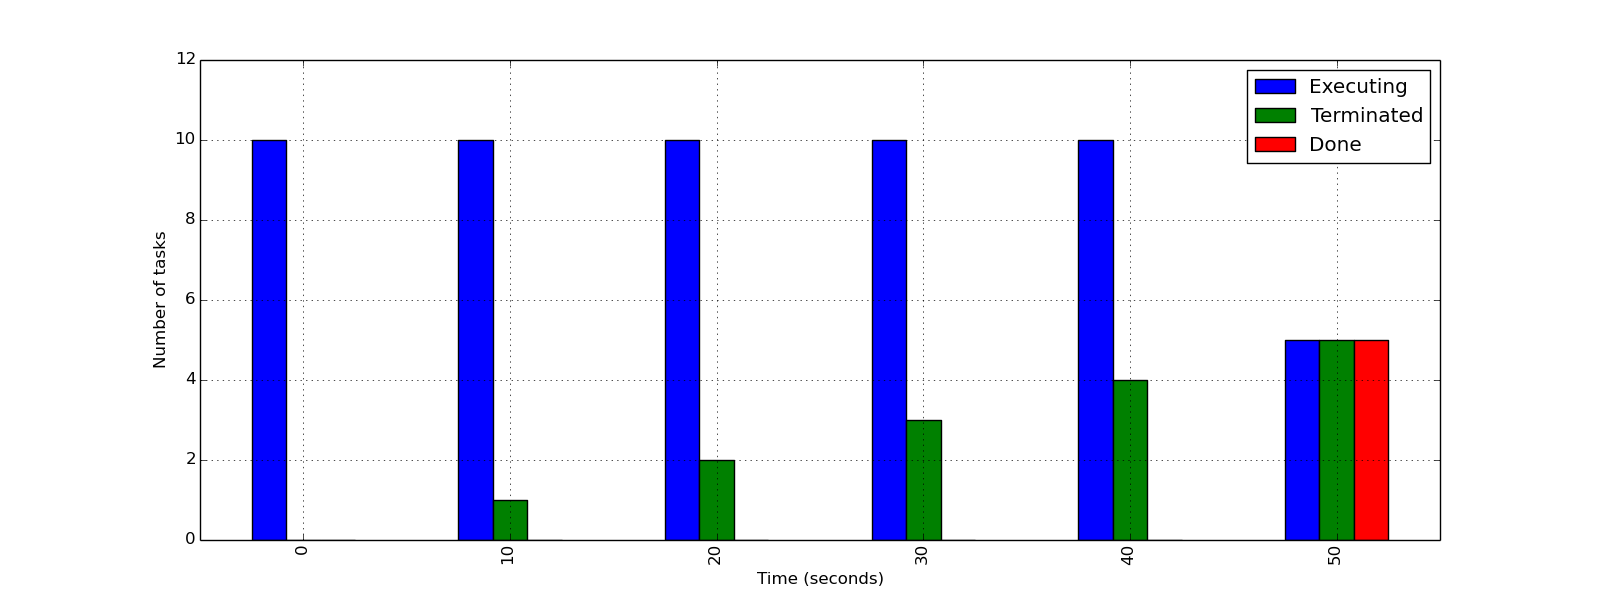
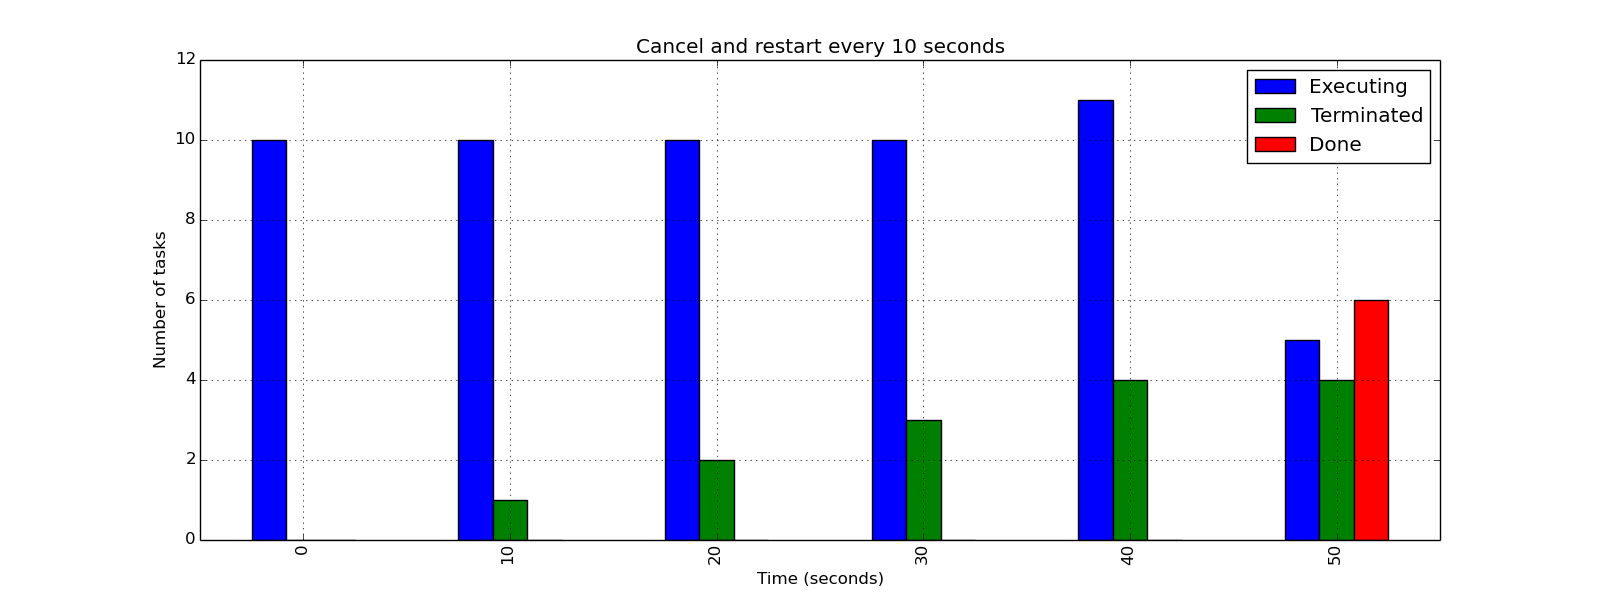
adding more figs

Changed region(s): [[0.8125, 0.48, 0.875, 0.66], [0.4062, 0.06, 0.625, 0.09], [0.6562, 0.15, 0.7188, 0.24]]

diff --git a/random_interrupt/simple_subprocess_imp/interrupt_restart/plotter.py b/random_interrupt/simple_subprocess_imp/interrupt_restart/plotter.py
@@ -5,7 +5,7 @@ if __name__ == "__main__":
 
 	nsims = 10
 	sim_arg = 50
-	ana_exec_time = 5
+	ana_exec_time = 10
 	ana_tot_duration = 50
 
 	# Read given CSV
@@ -15,7 +15,7 @@ if __name__ == "__main__":
 		header=4,sep=',',skipinitialspace=True)
 
 	df = df.sort("Interrupt")
-	print df
+	#print df
 	#print df[df.Interrupt<="20"].count()
 
 	# Construct required DF
@@ -34,7 +34,7 @@ if __name__ == "__main__":
 		#print t
 		#terminated = len(df[df.Interrupt<="{0}".format(t)])
 		terminated += len(df[df.Interrupt==str(t)])
-		print "Terminated: ",terminated
+		#print "Terminated: ",terminated
 
 		# Count restarted processes
 		terminated_time_this =  float(df[df.Interrupt==str(t)]["Terminated"])
@@ -44,7 +44,7 @@ if __name__ == "__main__":
 		else:
 			restarted = df[(df.Started > terminated_time_this) ]
 		restarted_cnt += len(restarted)
-		print "restarted: ",restarted_cnt
+		#print "restarted: ",restarted_cnt
 		executing = nsims - terminated + restarted_cnt
 		#print executing
 		req_df.loc["{0}".format(t)] = [executing, terminated,0]
@@ -54,8 +54,11 @@ if __name__ == "__main__":
 
 	req_df.loc["{0}".format(sim_arg)] = [restarted_cnt,terminated,nsims-terminated]	
 
+	print terminated_time_this
+	print df[df.Started > terminated_time_this]
+
 	#print req_df
-	ax = req_df.plot(kind='bar',stacked=False,ylim=(0,nsims+2))
+	ax = req_df.plot(kind='bar',stacked=False,ylim=(0,nsims+2), title="Cancel and restart every {0} seconds".format(ana_exec_time))
 	ax.set_xlabel("Time (seconds)")
 	ax.set_ylabel("Number of tasks")
 

diff --git a/random_interrupt/simple_subprocess_imp/interrupt_multiple_tasks/plotter.py b/random_interrupt/simple_subprocess_imp/interrupt_multiple_tasks/plotter.py
@@ -7,11 +7,13 @@ if __name__ == "__main__":
 	sim_arg = 50
 	ana_exec_time = 10
 	ana_tot_duration = 50
+	max_interrupt_tasks = 3
 
 	# Read given CSV
-	df = pd.read_csv('execution_profile_nsims_{0}_simdur_{1}_anaexec_{2}_anatotdur_{3}.csv'.format(nsims,sim_arg,
+	df = pd.read_csv('execution_profile_nsims_{0}_simdur_{1}_anaexec_{2}_anatotdur_{3}_max_{4}.csv'.format(nsims,sim_arg,
 		ana_exec_time,
-		ana_tot_duration),
+		ana_tot_duration,
+		max_interrupt_tasks),
 		header=4,sep=',',skipinitialspace=True)
 
 	df = df.sort("Interrupt")
@@ -44,11 +46,11 @@ if __name__ == "__main__":
 	req_df.loc["{0}".format(sim_arg)] = [0,terminated,nsims-terminated]	
 
 	#print req_df
-	ax = req_df.plot(kind='bar',stacked=False,ylim=(0,nsims+2))
+	ax = req_df.plot(kind='bar',stacked=False,ylim=(0,nsims+2), title = "Number of interrupted tasks = (1,{0})".format(max_interrupt_tasks))
 	ax.set_xlabel("Time (seconds)")
 	ax.set_ylabel("Number of tasks")
 
 	fig = plt.gcf()
 	fig.set_size_inches(16,6)
-	fig.savefig('plots/plot_interrupt_max_3.png'.format(ana_exec_time), dpi=100)
+	fig.savefig('plots/plot_interrupt_max_{0}.png'.format(max_interrupt_tasks), dpi=100)
 	

diff --git a/random_interrupt/simple_subprocess_imp/interrupt_multiple_tasks/fixed_interrupt.py b/random_interrupt/simple_subprocess_imp/interrupt_multiple_tasks/fixed_interrupt.py
@@ -87,10 +87,11 @@ if __name__ == '__main__':
 
 	title = "pid, Interrupt, Started, Terminated, Done"
 
-	f1 = open("execution_profile_nsims_{0}_simdur_{3}_anaexec_{1}_anatotdur_{2}.csv".format(tot_sim_tasks,
+	f1 = open("execution_profile_nsims_{0}_simdur_{3}_anaexec_{1}_anatotdur_{2}_max_{4}.csv".format(tot_sim_tasks,
 		interrupt_time_period,
 		interrupt_total_duration,
-		sim_arg),
+		sim_arg,
+		interrupt_max_tasks),
 	'w')
 
 	f1.write("total no. of sims = {0} \n".format(tot_sim_tasks))

diff --git a/random_interrupt/simple_subprocess_imp/interrupt_restart/fixed_interrupt.py b/random_interrupt/simple_subprocess_imp/interrupt_restart/fixed_interrupt.py
@@ -8,7 +8,7 @@ sim_kernel = "/bin/sleep"
 tot_sim_tasks = 10
 sim_arg = 50
 
-interrupt_time_period = 5
+interrupt_time_period = 10
 interrupt_total_duration = 50
 
 if __name__ == '__main__':
